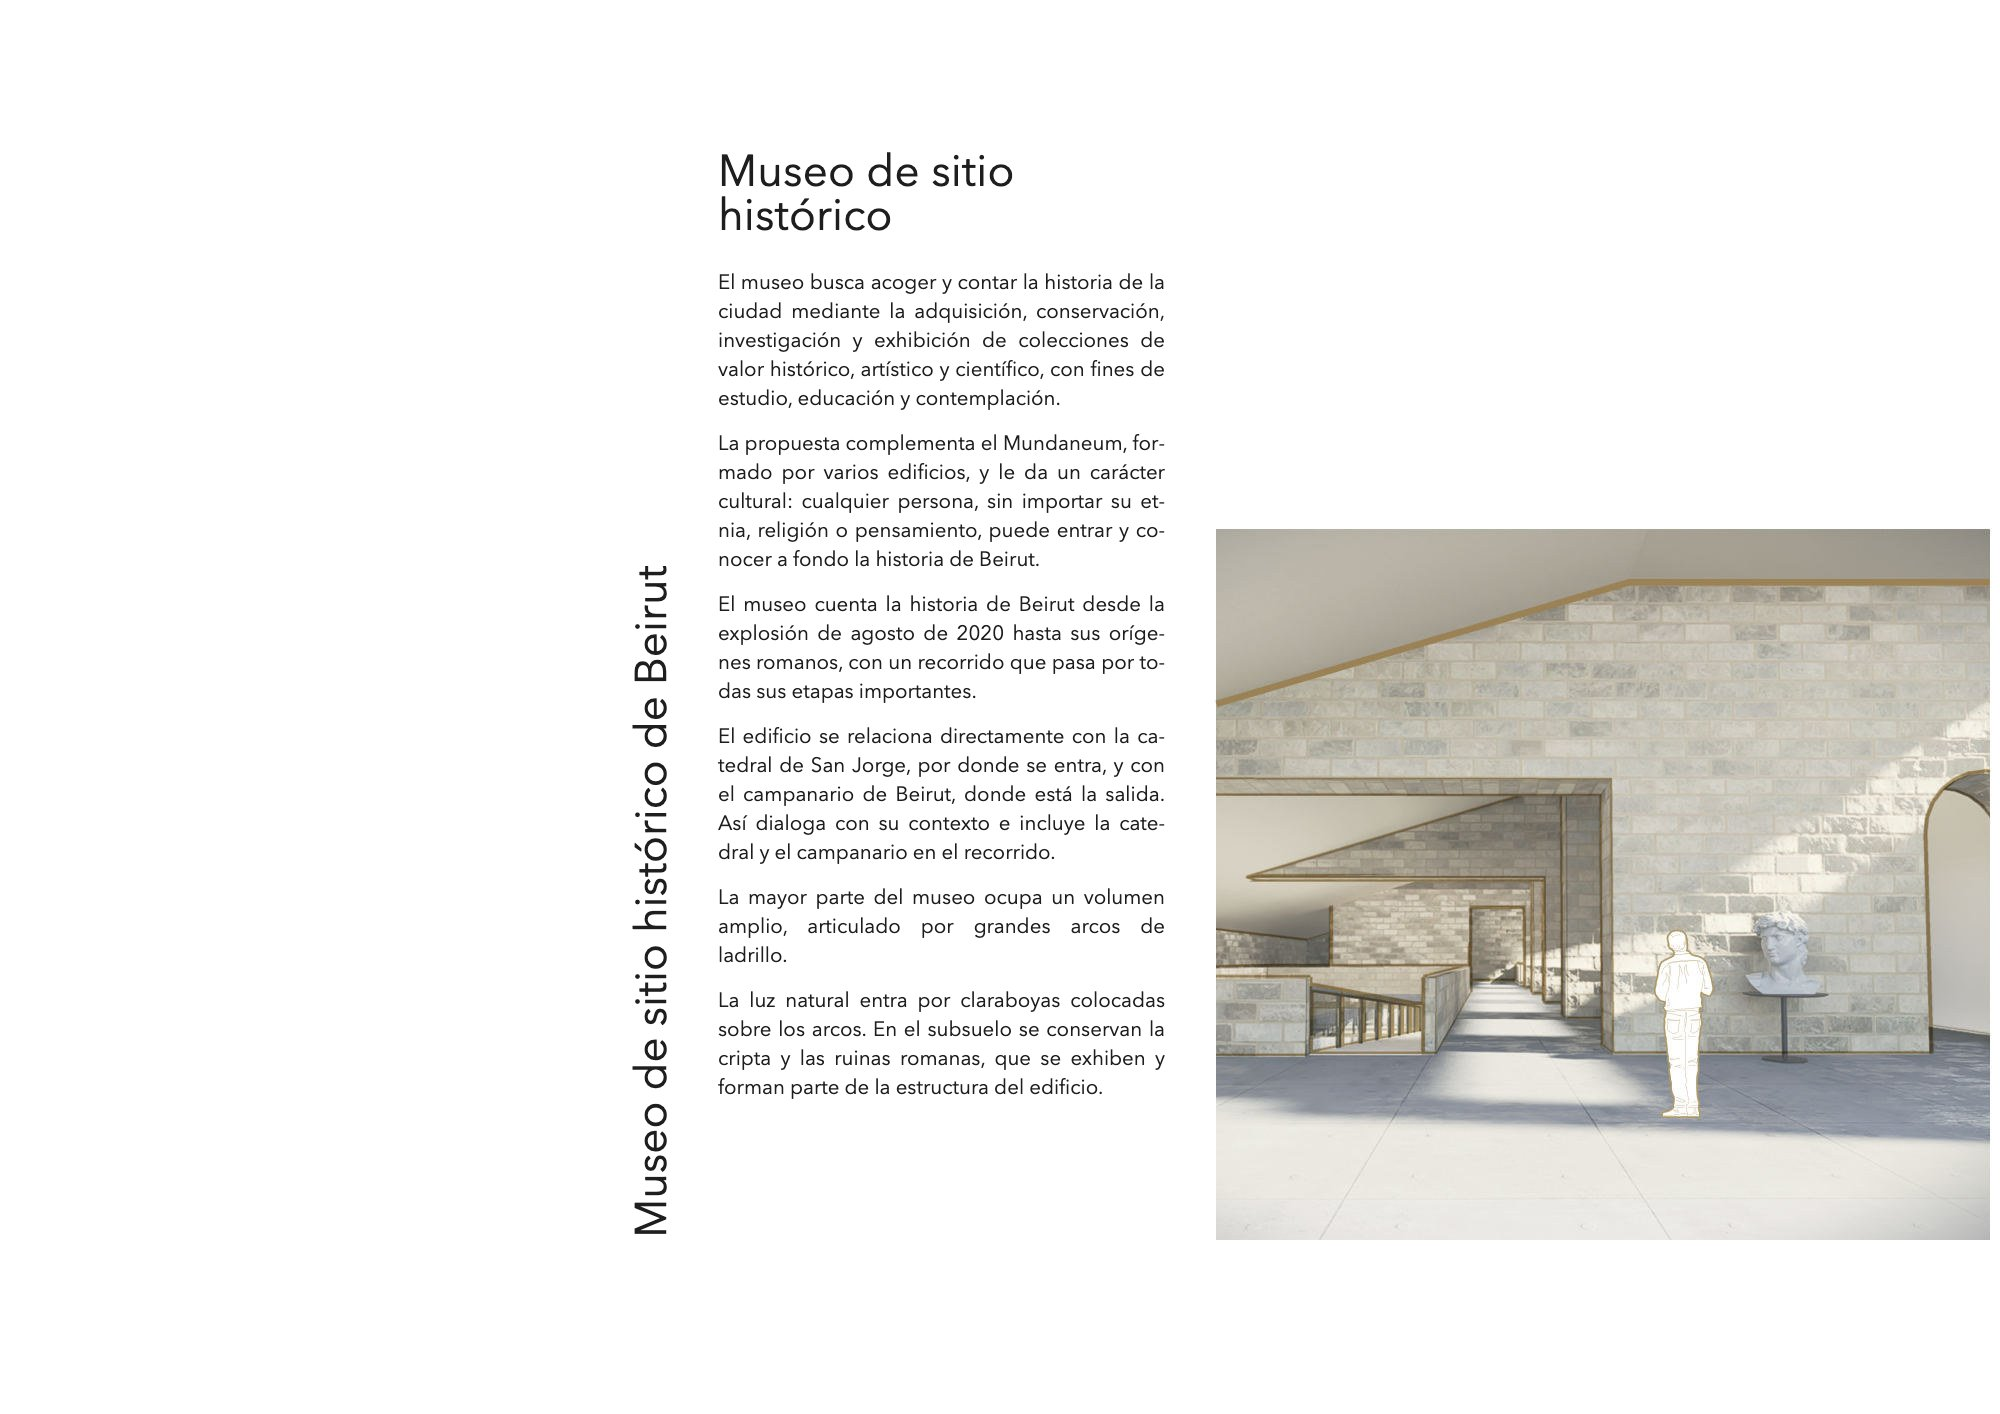
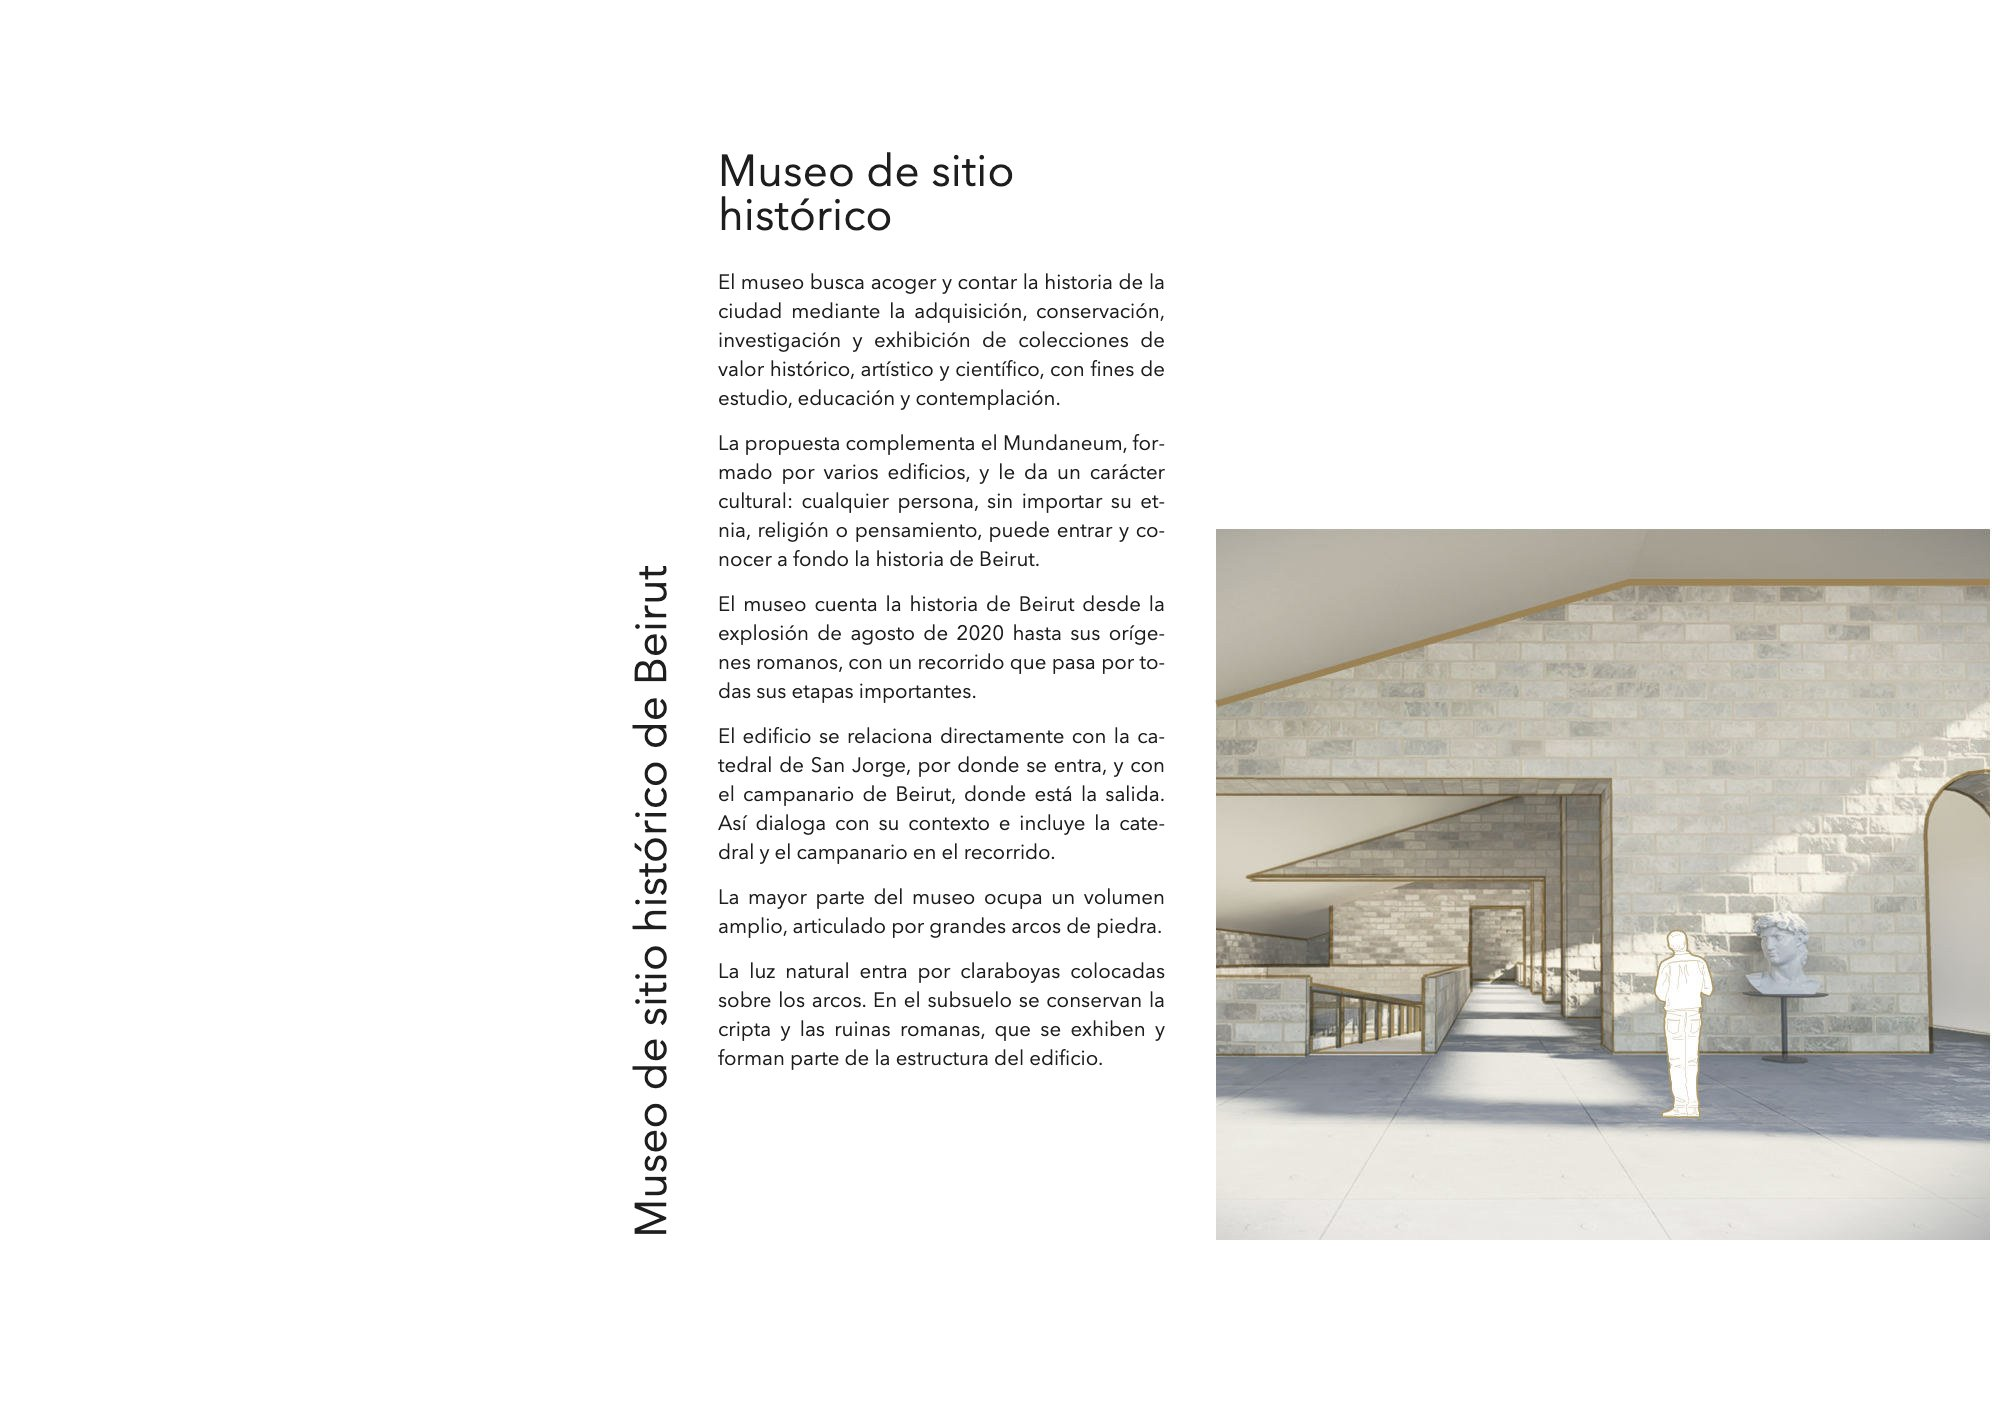
Mundaneum: los arcos son de piedra, no de ladrillo (lámina 03)

Changed region(s): [[0.341, 0.6535, 0.589, 0.7779]]

diff --git a/CLAUDE.md b/CLAUDE.md
@@ -218,4 +218,4 @@ Los resúmenes de cada proyecto académico se escribieron a partir del texto de 
 - Error de Claude en esta sesión: afirmó haber revisado las carpetas de WORK sin hacerlo; luego lo corrigió. **Verificar antes de afirmar.**
 - Un `git push` se colgó sin avanzar: se mató y se repitió con éxito (ahora se sube con un límite de espera).
 
-**2026-11-17 — sesión 7**: Mundaneum, gramática corregida. Láminas 03 (museo de sitio) y 04 (circulación y recorrido): el texto original de la lámina se tapó con blanco y se reescribió corregido en Avenir Next (mismo estilo que las 06/07: títulos 44 px, cuerpo 20,5 px justificado); en la 03 también el título vertical. Lámina 06: último párrafo ("…una biblioteca, un archivo de Beirut y un museo…"). Resumen del proyecto reordenado. Pendiente de confirmar con Joaquín: la lámina 03 dice "arcos de ladrillo", pero la 07 dice que el museo es de piedra (Riyadh Yellow Stone).
+**2026-11-17 — sesión 7**: Mundaneum, gramática corregida. Láminas 03 (museo de sitio) y 04 (circulación y recorrido): el texto original de la lámina se tapó con blanco y se reescribió corregido en Avenir Next (mismo estilo que las 06/07: títulos 44 px, cuerpo 20,5 px justificado); en la 03 también el título vertical. Lámina 06: último párrafo ("…una biblioteca, un archivo de Beirut y un museo…"). Resumen del proyecto reordenado. Los arcos del museo son de **piedra**, no de ladrillo (confirmado por Joaquín): corregido en la lámina 03.
